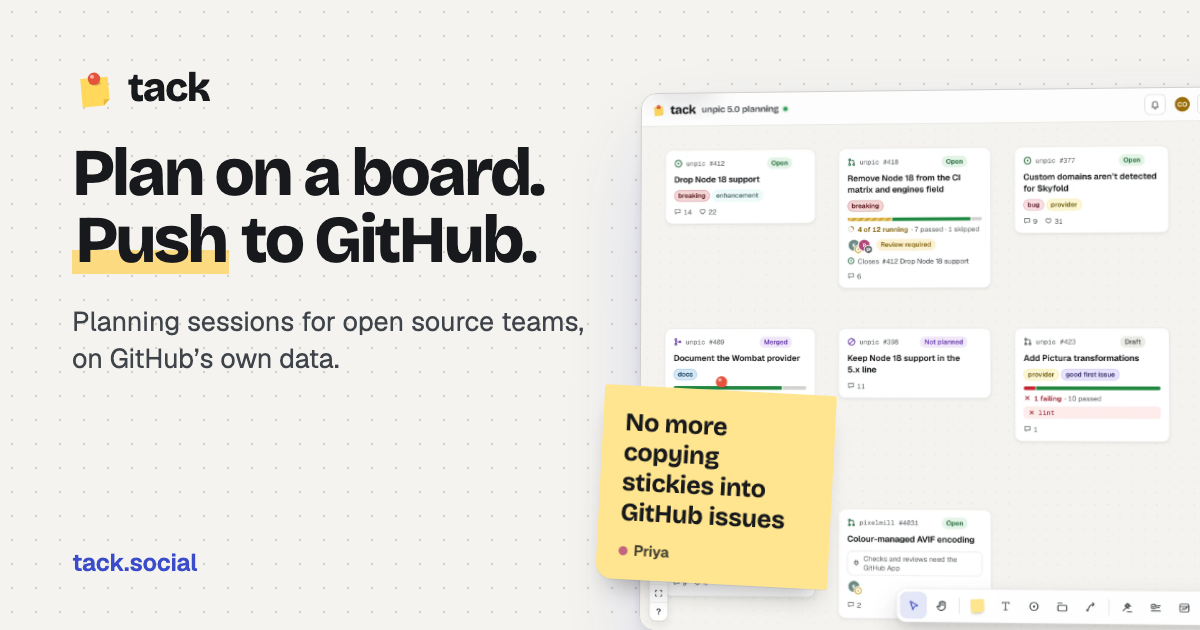
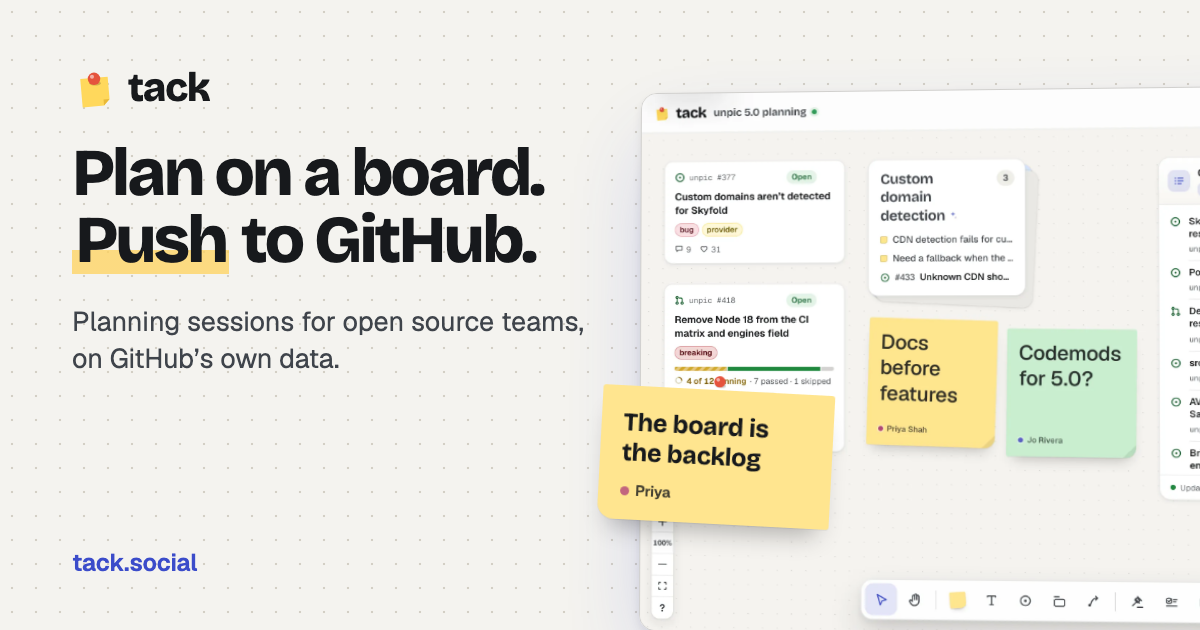
docs(site): the link preview image shows the new board and sticky

diff --git a/site/scripts/og.ts b/site/scripts/og.ts
@@ -1,5 +1,6 @@
 // The site's link preview image, public/og.png: 1200 × 630, drawn in a
-// browser from the landing page's words and the planning board's screenshot.
+// browser from the landing page's words, its sticky (src/hero.ts) and its
+// board's screenshot.
 //
 //   pnpm --filter site og
 //
@@ -8,6 +9,7 @@
 import { chromium } from "@playwright/test";
 import { readFile } from "node:fs/promises";
 import path from "node:path";
+import { HERO_STICKY } from "../src/hero.ts";
 
 const root = path.resolve(import.meta.dirname, "..");
 const out = path.join(root, "public/og.png");
@@ -18,7 +20,7 @@ const font = async (pkg: string, file: string) =>
 	).toString("base64")}`;
 const display = await font("bricolage-grotesque", "bricolage-grotesque-latin-wght-normal.woff2");
 const ui = await font("geist", "geist-latin-wght-normal.woff2");
-const board = await readFile(path.join(root, "src/assets/screenshots/planning-light.webp"));
+const board = await readFile(path.join(root, "src/assets/screenshots/hero-light.webp"));
 
 const html = `<!doctype html>
 <html>
@@ -140,7 +142,7 @@ const html = `<!doctype html>
 	</div>
 	<div class="sticky">
 		<span class="pin">${mark(false)}</span>
-		No more copying stickies into GitHub issues
+		${HERO_STICKY}
 		<div class="who"><i></i>Priya</div>
 	</div>
 	<div class="url">tack.social</div>
